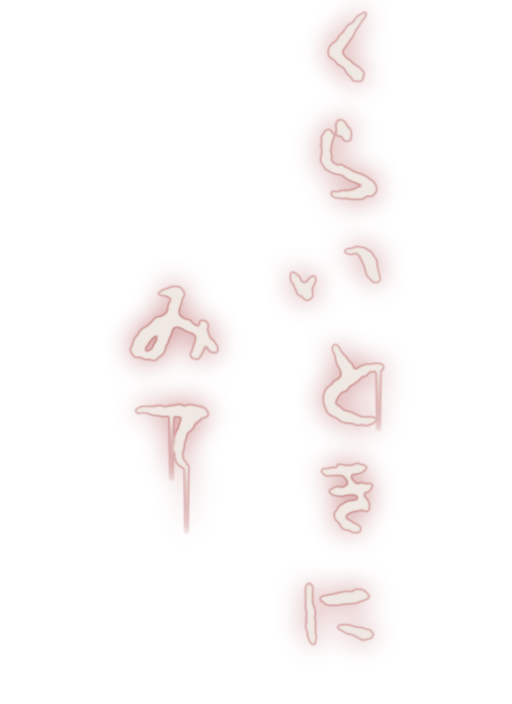
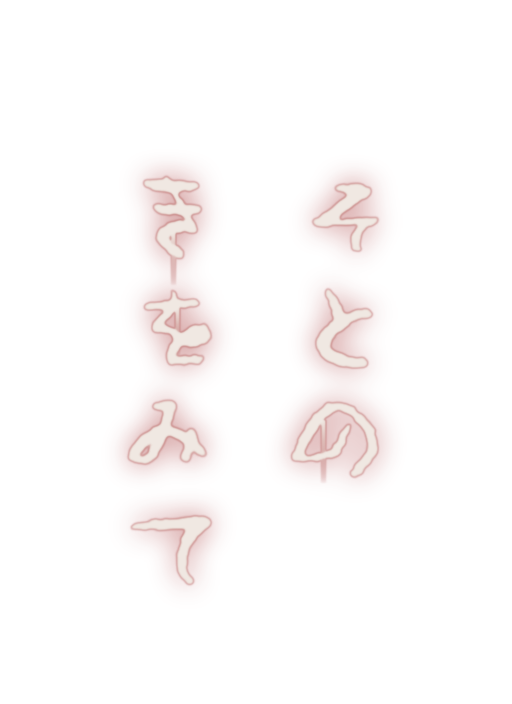
光る数字を外の4本の木に移す／ガラスの文字をガラスぜんたいに散りばめる

diff --git a/games/koushu-denwa/unreal/kd_game.py b/games/koushu-denwa/unreal/kd_game.py
@@ -97,7 +97,7 @@ ENTER_FADE_OUT = 0.9           # 暗くなるまでの時間（秒）
 ENTER_BLACK = 2.6              # 真っ暗のまま待つ時間（秒）。この間に「ドアが開く音 → 中に入る音 → 扉が閉まる音」が鳴る
 ENTER_FADE_IN = 1.4            # 明るくなるまでの時間（秒）
 SOUND_DIR = "/Game/KoushuDenwa/Sounds"
-MATERIAL_DIR = "/Game/KoushuDenwa/Materials"          # setup_game_fp.py が材質（M_GlassGlow0〜9・M_GlassHintC1〜3）を置く場所
+MATERIAL_DIR = "/Game/KoushuDenwa/Materials"          # setup_game_fp.py が材質（M_CodeGlowTree0〜9・M_GlassGlow0〜9・M_GlassHintC1〜3）を置く場所
 # 幽霊が出る場所（ボックス中心からの位置 cm。正面＝+Y）。段階1〜4で、だんだん近づく
 GHOST_SPOTS = [(0.0, 1300.0), (-240.0, 750.0), (270.0, 360.0), (115.0, 25.0)]
 GHOST_SUBS = ["（外に、誰か立っている……）", "（さっきより、近い）", "（ガラスに、何か貼られている）", "（すぐそこにいる）"]
@@ -579,15 +579,25 @@ class Game:
             if a is None or i >= len(code) or not isinstance(code[i], int) or not 0 <= code[i] <= 9:
                 continue
             mat = None
-            try:
-                mat = unreal.EditorAssetLibrary.load_asset("%s/M_GlassGlow%d" % (MATERIAL_DIR, code[i]))
-                a.get_component_by_class(unreal.StaticMeshComponent).set_material(0, mat)
-            except Exception as e:  # noqa
-                log("  (光る数字の材質を入れられません) KD_CodeGlow_%d: %s" % (i + 1, e))
-            if mat is None:
-                missing.append("M_GlassGlow%d" % code[i])
+            for pre in ("M_CodeGlowTree", "M_GlassGlow"):                    # 外の木用の強い光の材質。なければガラスの文字用で代用
+                try:
+                    mat = unreal.EditorAssetLibrary.load_asset("%s/%s%d" % (MATERIAL_DIR, pre, code[i]))
+                except Exception as e:  # noqa
+                    log("  (光る数字の材質を読めません) %s%d: %s" % (pre, code[i], e))
+                    mat = None
+                if mat is not None:
+                    if pre != "M_CodeGlowTree":
+                        log("[注意] M_CodeGlowTree%d がないので M_GlassGlow%d で代用します（外の木では暗いかも）。setup_game_fp.py を実行し直してください" % (code[i], code[i]))
+                    break
+            if mat is not None:
+                try:
+                    a.get_component_by_class(unreal.StaticMeshComponent).set_material(0, mat)
+                except Exception as e:  # noqa
+                    log("  (光る数字の材質を入れられません) KD_CodeGlow_%d: %s" % (i + 1, e))
+            else:
+                missing.append("M_CodeGlowTree%d" % code[i])
         if missing:
-            log("[エラー] 光る数字の材質がありません: %s。setup_game_fp.py を実行し直してください" % ", ".join(missing))
+            log("[エラー] 外の木の光る数字の材質がありません: %s。setup_game_fp.py を実行し直してください" % ", ".join(missing))
         self.hint_comp, self.hint_mat0, self.hint_mats = None, None, []
         if self.hint is not None:
             try:
@@ -604,21 +614,31 @@ class Game:
         log("暗号の張り紙: 紙%d枚・数字%d枚・答え %s" % (sum(1 for a in self.code_posters if a is not None), sum(1 for a in self.code_glow if a is not None), ans))
 
     def update_code_glow(self, mult):
-        """光る数字を出す・隠す。暗い間（mult<0.05・蛍光灯の棒を隠す条件と同じ）で、謎の場面の間だけ、貼られた分を出す。変わったときだけ切りかえる"""
-        n = self.code_pasted if (self.code_active and mult < 0.05) else 0
-        if n == self._glow_key:
+        """外の木の光る数字と、内側のガラスの言葉（貼られた紙）を、切りかえる。
+        暗い間（mult<0.05・蛍光灯の棒を隠す条件と同じ）：ガラスの言葉は1枚も出さず（外の木が見えるように）、貼られた分の数字だけが木で光る。
+        明るい間：数字は消えて、貼られた分の言葉だけがガラスに出る。変わったときだけ切りかえる"""
+        dark = self.code_active and mult < 0.05
+        n_glow = self.code_pasted if dark else 0
+        n_word = 0 if dark else (self.code_pasted if self.code_active else 0)
+        key = (n_glow, n_word)
+        if key == self._glow_key:
             return
-        self._glow_key = n
+        self._glow_key = key
         for i, a in enumerate(self.code_glow):
             if a is not None:
-                a.set_actor_hidden_in_game(i >= n)
+                a.set_actor_hidden_in_game(i >= n_glow)
+        for i, a in enumerate(self.code_posters):
+            if a is not None:
+                a.set_actor_hidden_in_game(i >= n_word)
+        if dark:                                                   # ふつうの張り紙も、1枚も出さない（念のため）
+            self.posters_hide()
 
     def code_clear(self):
         for a in self.code_posters + self.code_glow:
             if a is not None:
                 a.set_actor_hidden_in_game(True)
         self.code_pasted = 0
-        self._glow_key = 0
+        self._glow_key = (0, 0)
 
     def code_begin(self):
         self.code_active = True
@@ -628,10 +648,7 @@ class Game:
         log("謎7の場面を始めます（答え %s）" % "".join(str(d) for d in ENVELOPE_CODE))
 
     def code_paste(self, k):
-        a = self.code_posters[k] if k < len(self.code_posters) else None
-        if a is not None:
-            a.set_actor_hidden_in_game(False)
-        self.code_pasted = k + 1
+        self.code_pasted = k + 1                                   # 紙は、この暗い間が終わって明るくなったときにガラスに出る（暗い間は外の木の数字だけ）
         self.update_code_glow(self.mult)
         log("謎7：%d枚目の張り紙が貼られました（数字 %s）" % (k + 1, ENVELOPE_CODE[k] if k < len(ENVELOPE_CODE) else "?"))
 
@@ -1196,7 +1213,7 @@ class Game:
         free = {"110", "119"}
         msgs = {"117": ("ポーン…「7月14日 午前0時を お知らせします」", (200, 230, 255)),
                 "177": ("「神狩村は…赤い雨です」", (255, 160, 160)),
-                "104": ("「お調べします…張り紙は 貼られた順に」", (200, 230, 255))}
+                "104": ("「お調べします…外の木に 光った順に」", (200, 230, 255))}
         if num in free:
             first = not self.lcd_seen
             screen(self.world, "（声はない。……液晶に文字が出た）  ソト ヒダリ ミギ ヒダリ", (255, 120, 120), 7.0)

diff --git a/games/koushu-denwa/blender/make_game_textures.py b/games/koushu-denwa/blender/make_game_textures.py
@@ -234,7 +234,7 @@ def make_glass_texts():
     print('保存', 'game/glass_hint.png', im.size, os.path.getsize(p) // 1024, 'KB')
 
 
-CODE_HINT_TEXTS = ['くらいときに\nみて', 'はられた\nじゅんに', 'もういちど\n0714']       # 謎7のヒント（電話機の上の文字が90秒ごとに変わる）
+CODE_HINT_TEXTS = ['そとの\nきを みて', 'ひかった\nじゅんに', 'もういちど\n0714']       # 謎7のヒント（電話機の上の文字が90秒ごとに変わる。数字は外の木に光る）
 
 
 def glass_glow_digit(d):
@@ -242,7 +242,14 @@ def glass_glow_digit(d):
     W, H = 512, 704
     f, _c = _glass_font(400)
     can = Image.new('L', (W, H), 0)
-    ImageDraw.Draw(can).text((W // 2, H // 2), str(d), font=f, fill=255, anchor='mm')
+    if d == 1:                                                # 「1」は「7」と見まちがえないよう、専用に描く：たて棒＋足の横棒＋短くて斜めの旗（上の横棒はなし）
+        dr = ImageDraw.Draw(can)
+        cx, top, bot, sw = W // 2, 110, 594, 66
+        dr.rectangle([cx - sw // 2, top, cx + sw // 2, bot], fill=255)                          # たて棒
+        dr.polygon([(cx - sw // 2, top + 10), (cx + sw // 2, top), (cx + sw // 2, top + 70), (cx - 130, top + 190), (cx - 160, top + 140)], fill=255)   # 短い旗（左下に斜め）
+        dr.rectangle([cx - 135, bot - 48, cx + 135, bot], fill=255)                             # 足（台）
+    else:
+        ImageDraw.Draw(can).text((W // 2, H // 2), str(d), font=f, fill=255, anchor='mm')
     bb = can.getbbox()
     target = int(H * 0.60)                                    # 高さ約60%に合わせる（フォントごとの差を吸収）
     if bb and (bb[3] - bb[1]) > 0:

diff --git a/games/koushu-denwa/STATUS.md b/games/koushu-denwa/STATUS.md
@@ -1,6 +1,6 @@
 # 3Dホラーゲーム「公衆電話」 状況メモ
 
-最終更新：2026-10-28（第26版：暗い間だけ光る数字の張り紙の謎（謎7）を作った＝封筒の答えを見つける方法ができた。実機で未確認）
+最終更新：2026-10-29（第27版：謎7の光る数字を、外の4本の木に移した／ガラスの文字をガラスぜんたいに散りばめた。実機で未確認）
 
 ## ゲームの設定（ひかるが決めたこと）
 
@@ -94,6 +94,7 @@ GeForce RTX 2070 SUPER／Core i7-10700K／メモリ32GB／SSD 1TB＋HDD 2TB
 ## 進行中・次にやること
 
 - **光る数字の張り紙の謎（謎7）を作った（未確認）**：0115のあとに電話で 0714 を押すと、電話の画面が閉じ、約44秒の場面になる。点滅 → 暗い（その間だけ、貼られた紙の数字が蛍光の黄緑で光る）→ 明るい、を4回。紙は貼られる順に「右の奥（でられない）→左の手前（たすけて）→ドア（まってた）→右の手前（みぃつけた）」。k回目の暗い間は1〜k枚目の数字が光り、最後の暗い間（6秒）は4つ全部。**答え＝`ENVELOPE_CODE`（i番目に貼られる紙に i番目の数字）**で、設定ファイルで変えても setup の実行し直しは要らない（数字の絵は 0〜9 を全部作ってある）。0714 をもう一度押すと最初から貼り直す（謎の数・札・圧力は増えない）。封筒を持って開けないまま90・180・270秒たつと、電話機の上の手がかりの文字が変わる（`glass_hint_c1〜c3`）。封筒の4けたが答えの並べかえのときは「順番がちがう？」（幽霊は近づかない・`CODE_PERM_SAFE`）。ファイル：`blender/make_game_textures.py`（`python make_game_textures.py glow` で `assets/tex/game/glass_glow_0〜9.png`・`glass_hint_c1〜3.png`。Pillow を入れた）、`setup_game_fp.py` の `s_code_posters`（`KD_CodePoster_1〜4`・`KD_CodeGlow_1〜4`、`CODE_SCALE`・`CODE_GLOW_LIFT`・`CODE_SLOTS`）、`kd_game.py`（`CODE_*` の定数、`setup_code`・`code_steps`・`update_code_glow` など）。数字の絵の見本：`assets/glow_digits_preview.png`。偽の Unreal で、流れ・数字の出入り・やり直し・ヒント・並べかえの文を確認済み。実機で見ること：①setup のログ「暗号の張り紙: 4枚」と、Play のログに「光る数字の材質がありません」が出ないこと ②0714のあと電話の画面が閉じ、紙が上の順に貼られて、重ならず浮かないか（`CODE_SLOTS`/`CODE_SCALE`/`CODE_GLOW_LIFT`）③暗い間に数字が読めるか・画面が真っ黒でないか（`CODE_DARK_BLACK`=0）④明るさの自動調整やブルームで光りすぎないか ⑤点滅の「消えた」瞬間にも、貼った数字がうっすら見える（`mult<0.05` のため。見せたくなければ `cdark` のときだけにする）⑥ヒントの文字が変わるか。答えの数字は、まだ仮の [3,6,1,8]。
+- **謎7の数字を外の木に移した・ガラスの文字を散りばめた（未確認・案C）**：暗い間は、内側のガラスの言葉を1枚も出さず（ふつうの張り紙も）、外の4本の木に数字が光る（k回目の暗い間は1〜k本目、最後は4本）。明るい間は数字が消え、貼られた紙（`KD_CodePoster_*`）の言葉だけがガラスに出る（紙は暗い間が終わって明るくなったときに出る）。木は `setup_game_fp.py` の `s_code_posters` が、森の `pine_*`/`dead_*` から、入口の向き±`CODE_TREE_ANGLE`(40)度・距離 `CODE_TREE_MIN`〜`MAX`(450〜800cm) の中で左右にばらけた4本を自動で選ぶ（足りないぶんは黒い円柱 `KD_CodeTrunk_*` を立てる。`CODE_TREE_PICK="spawn"` で、いつも円柱）。光る順は左→右に並べた4本の `CODE_TREE_ORDER`=[1,3,0,2] 番目（左右の順にならない）。数字の板は木の幹の表面（`CODE_TREE_TRUNK_R`=25）から3cm 手前、高さ `CODE_TREE_Z`=170、板の高さ `CODE_TREE_SIZE`=110、光り方は `GLASS_GLOW`×`CODE_TREE_GLOW`(3) の専用材質 `M_CodeGlowTree0〜9`。ヒントの文字は「そとの きを みて／ひかった じゅんに／もういちど 0714」、104番は「外の木に 光った順に」。数字の「1」は、足の横棒＋短い斜めの旗に描き直した（7と見まちがえない）。ガラスの文字は `GLASS_SPREAD`=True・`GLASS_COUNT`=24 枚（4面×6枚・大きさ `GLASS_SIZE_MIN`〜`MAX`=0.8〜1.5・傾き `GLASS_TILT`±7度・毎回同じ配置）。枚数が増えたので、演出1（30%）は8枚、演出4は24枚。電話機の上（ヒント）と目の写真の場所はよけてある。実機で見ること：①ログ「光る数字の木: 候補N本 → 森の木・専用の柱」と各数字の木・距離 ②ガラスごしに4本の木が一度に見えるか・数字が読める大きさ／明るさ（`CODE_TREE_SIZE`/`CODE_TREE_GLOW`/`CODE_TREE_Z`）、霧で薄くならないか ③光る順番と読む順番が一致して分かるか ④木の枝に数字がかくれないか（`CODE_TREE_TRUNK_R`）⑤ガラスの文字が4面ぜんたいにあるか・多すぎないか（`GLASS_COUNT`）・動作が重くないか。
 - **赤い封筒の4けたの鍵（謎9）と脱出エンドを作った（未確認）**：`kd_game.py`。箱が開いたあと、開いた金庫を見て [E]「赤い封筒を開ける」→ 数字キーで4けた（BackSpace で消す・Enter か E で決める・Q でやめる）。正解 `ENVELOPE_CODE`（**仮の [3,6,1,8]。本物はひかるが決める**）→ 扉の鍵・謎が1つ進む。まちがい／ひっかけ（`ENVELOPE_DECOYS`＝1997・0728 は専用の文）→「ブッ」・幽霊が1歩近づく（`ENVELOPE_WRONG_GHOST`＝false で止められる）。鍵を持って扉を見る（`DOOR_RANGE`=200cm）と「[E] 鍵で扉を開ける」→ 暗転 → 入口の外110cmに出て「エンディング①：脱出」（状態 `ESCAPED`・自由に歩ける）。もともと扉を開ける処理と脱出エンドは無かったので、新しく作った。**まだ無いもの：封筒の答えを見つける謎（暗い間だけ光る数字の張り紙＋貼られる順番）。いまは答えを知る方法が無いので、遊びで試すときは `ENVELOPE_CODE` を見るか、`Saved/kd_settings.json` で決める**。偽の Unreal で、ひっかけ・まちがい・正解の流れだけ確認済み（扉から出る流れは未確認）。実機で見ること：封筒の案内が出るか／数字入力／はずれで幽霊が進みすぎないか／扉の案内（`DOOR_RANGE`・`LOOK_CONE`）／外へ出た位置と向き／出たあと歩けるか。次：①光る数字の張り紙の謎（封筒の答え）②エンディング②③
 - **金庫の中の箱をゲームに入れた（未確認）**：`setup_game_fp.py` が `PuzzleBox.fbx` を金庫の底の真ん中に置き（`DialSafe_Box`・はじめは隠す・金庫が開くと出る）、材質 `M_KDBoxLacquer`（漆）・`M_KDBoxIvory`（数字の絵）・真鍮・黒をつける。鍵と10円②は箱の上に乗せた。箱の真上の少し手前に専用カメラ `KD_BoxCam`（`BOX_CAM_BACK`=9cm・`BOX_CAM_UP`=30cm、金庫の倍率つき）。`kd_game.py`：箱を調べると `KD_BoxCam` に切りかえ、マウスの当たりを本物のボタンの面（高さ `BOX_TOP_H`=6.2cm・間隔3.2cm×倍率）で計算。`BOX_DEBUG`=False（線の枠は出さない）、`BOX_HOVER`=True（指しているボタンだけ細い枠）。偽の Unreal で、ボタン6の真ん中を指すと6が返るのを確認済み。実機で見ること：①1が奥の左・16が手前の右か（左右が逆なら `BOX_FLIP`=True、前後が逆なら直しが必要）②箱がカメラに収まるか（`BOX_CAM_BACK`/`BOX_CAM_UP`）③細い枠がボタンに乗るか（`BOX_TOP_H`）④鍵と10円が箱の上に乗っているか ⑤数字の絵がボタンに貼れているか。
 - **金庫の中の箱の3Dモデルを作った（見た目はひかるOK）**：`blender/make_puzzle_box.py`（`D:\blender.exe -b --python` で約1.5分）→ `assets/unreal/PuzzleBox.fbx`（19×17×6.2cm・原点＝底の中心・おもて -Y。材質の穴 0=漆 1=真鍮 2=象牙のボタン 3=黒）、ボタンの数字の絵 `assets/tex/game/puzzlebox_buttons.png`（＋`_rough`）。確認画像 `assets/puzzlebox_preview.png`・`puzzlebox_in_safe.png`。ボタンの上面は原点から高さ 6.2cm、間隔 3.2cm（`BOX_BTN` と同じ）、1＝奥の左・16＝手前の右。金庫の中では底（高さ2.5cm）に置く。漆のでこぼこ・真鍮の汚れはBlenderの中だけなので、Unrealでは材質を作り直す。次：OKなら `setup_game_fp.py` で金庫の中に置き（金庫が開いたら見せる）、`kd_game.py` のクリックの枠を箱のボタンに合わせて `BOX_DEBUG`=False。

diff --git a/games/koushu-denwa/unreal/GAME_PLAN.md b/games/koushu-denwa/unreal/GAME_PLAN.md
@@ -165,7 +165,7 @@ GameModeを設定しないと空飛ぶカメラになる／ボックスは Use C
 |---|---|---|
 | 117 | 10円 | 「7月14日 午前0時を…」（0714が合っていると分かる） |
 | 177 | 10円 | 「神狩村は 赤い雨」（赤い封筒の前ぶれ） |
-| 104 | 10円 | 「張り紙は 貼られた順に」（手順7の手がかり） |
+| 104 | 10円 | 「外の木に 光った順に」（手順7の手がかり） |
 | 110・119 | 無料 | 声はなし。液晶に文字 |
 | 0115 | 10円 | 先へ進むために必ずかける |
 - 10円は ①道ばた ②金庫の外の扉 ③電話の下のふた。0枚で0115を押したら、返却口から10円が1枚落ちる（詰み防止）。死んで最初からやり直すと3枚に戻る。
